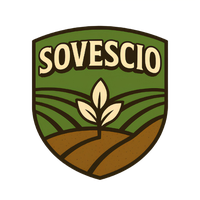
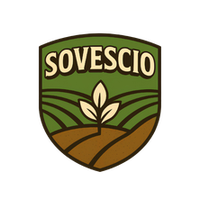
Storico draft: pagina con il tabellone delle scelte per anno
Nuova pagina pubblica /draft, raggiungibile dalla home: filtro per anno e
tabellone a tre colonne, una per giro, con numero della pick, squadra che
ha scelto, giocatore con ruolo e campioncino. Solo i draft gia' svolti.

Loghi delle squadre ritagliati con lo stesso margine (5%), cosi' hanno la
stessa grandezza visiva in tutto il sito.

Changed region(s): [[0.15, 0.12, 0.84, 0.9]]

diff --git a/app/templates/storico_draft.html b/app/templates/storico_draft.html
@@ -1,0 +1,93 @@
+{% extends 'base_tailwind.html' %}
+
+{% block content %}
+{% import '_macros.html' as m %}
+<div class="mb-2">{{ m.torna_indietro(url_for('public.home')) }}</div>
+<h2 class="mb-4 text-center text-lg font-bold">Storico Draft</h2>
+
+{% set anni = scelte | map(attribute='anno') | unique | list %}
+
+{% if scelte %}
+<div class="mb-4 rounded-2xl border border-line bg-panel p-4">
+    <label for="filterAnno" class="mb-1.5 block text-[11px] font-bold uppercase tracking-wide text-muted">Anno</label>
+    <select id="filterAnno" class="w-full rounded-xl border border-line bg-panel-2 px-3 py-2 text-sm">
+        {% for anno in anni %}
+        <option value="{{ anno }}" {% if loop.first %}selected{% endif %}>{{ anno }}</option>
+        {% endfor %}
+    </select>
+</div>
+
+<!-- Tabellone: una colonna per giro (una sotto l'altra su telefono), le
+     scelte nell'ordine di chiamata. -->
+{% for anno in anni %}
+<div class="dr-tabellone" data-anno="{{ anno }}">
+    {% for giro, picks in scelte | selectattr('anno', 'equalto', anno) | groupby('giro') %}
+    <section class="dr-giro">
+        <h3 class="dr-giro-titolo">Giro {{ giro }}</h3>
+        {% for s in picks | sort(attribute='numero') %}
+        <div class="dr-tile {{ 'dr-prima' if s.numero == 1 }}">
+            <span class="dr-tile-num">{{ s.numero }}</span>
+            <img src="{{ url_for('static', filename='loghi/' ~ (s.username or 'svincolato') ~ '.png') }}?v={{ asset_v('loghi/' ~ (s.username or 'svincolato') ~ '.png') }}"
+                 alt="" class="dr-tile-logo">
+            <div class="min-w-0 flex-1">
+                <div class="truncate text-sm font-bold">{{ s.giocatore }}</div>
+                <div class="truncate text-[11px] text-muted">
+                    {% if s.ruolo %}{{ m.ruolo_colorato(s.ruolo) }} · {% endif %}{{ s.squadra }}
+                </div>
+            </div>
+            {% if s.campioncino %}<img src="{{ s.campioncino }}" alt="" class="dr-tile-foto" loading="lazy" onerror="this.remove()">{% endif %}
+        </div>
+        {% endfor %}
+    </section>
+    {% endfor %}
+</div>
+{% endfor %}
+{% else %}
+<p class="rounded-2xl border border-line bg-panel p-4 text-center text-sm text-muted">Nessun draft registrato.</p>
+{% endif %}
+
+<style>
+.dr-tabellone { display: grid; gap: 1rem; }
+@media (min-width: 768px) { .dr-tabellone { grid-template-columns: repeat(3, minmax(0, 1fr)); } }
+/* display: grid qui sopra vincerebbe su .hidden di Tailwind, che e' caricato
+   prima: senza questa regola il filtro per anno non nasconderebbe niente. */
+.dr-tabellone.hidden { display: none; }
+.dr-giro { display: flex; flex-direction: column; gap: 0.5rem; }
+.dr-giro-titolo {
+    padding: 0.4rem 0.75rem; border-radius: 0.75rem; text-align: center;
+    font-size: 0.75rem; font-weight: 800; text-transform: uppercase; letter-spacing: 0.08em;
+    color: #fff; background: linear-gradient(135deg, var(--accent), color-mix(in oklab, var(--accent) 55%, #000));
+}
+.dr-tile {
+    display: flex; align-items: center; gap: 0.6rem; padding: 0.5rem 0.6rem;
+    border: 1px solid var(--line); border-radius: 0.9rem; background: var(--panel);
+    transition: transform .15s, border-color .15s;
+}
+.dr-tile:hover { transform: translateY(-2px); border-color: var(--accent); }
+.dr-tile-num {
+    width: 2rem; flex-shrink: 0; text-align: center; font-size: 1.25rem; font-weight: 900;
+    font-variant-numeric: tabular-nums; color: color-mix(in oklab, var(--accent) 80%, var(--text));
+}
+.dr-tile-logo { height: 1.75rem; width: 1.75rem; flex-shrink: 0; object-fit: contain; }
+.dr-tile-foto { height: 2.75rem; width: 2rem; flex-shrink: 0; object-fit: contain; }
+/* La prima scelta assoluta in oro, come il primo posto del podio nell'albo d'oro. */
+.dr-tile.dr-prima { border-color: #ffb020; background: linear-gradient(90deg, color-mix(in oklab, #ffb020 18%, var(--panel)), var(--panel)); }
+.dr-tile.dr-prima .dr-tile-num { color: #ffb020; }
+</style>
+
+<script>
+document.addEventListener('DOMContentLoaded', function() {
+    const filterAnno = document.getElementById('filterAnno');
+    if (!filterAnno) return;
+
+    function applyFilter() {
+        document.querySelectorAll('[data-anno]').forEach(el => {
+            el.classList.toggle('hidden', el.dataset.anno !== filterAnno.value);
+        });
+    }
+
+    filterAnno.addEventListener('change', applyFilter);
+    applyFilter(); // il select parte sull'ultimo anno: nascondi subito gli altri
+});
+</script>
+{% endblock %}

diff --git a/app/templates/index.html b/app/templates/index.html
@@ -16,6 +16,7 @@
     {{ m.voce_menu(url_for('vetrina.vetrina'), 'bi-shop-window', 'Vetrina') }}
     {{ m.voce_menu(url_for('public.movimenti_mercato'), 'bi-arrow-left-right', 'Movimenti di Mercato') }}
     {{ m.voce_menu(url_for('public.albo_oro'), 'bi-trophy-fill', "Albo d'Oro") }}
+    {{ m.voce_menu(url_for('public.storico_draft'), 'bi-stars', 'Storico Draft') }}
     {{ m.voce_menu(url_for('chat.chat_page'), 'bi-chat-dots-fill', 'Chatbot della lega') }}
 </div>
 

diff --git a/tests/test_storico_draft.py b/tests/test_storico_draft.py
@@ -1,0 +1,99 @@
+"""
+Storico draft: quali pick compaiono in pagina e in che ordine.
+
+In tabella ci sono gia' le pick degli anni futuri, ancora senza giocatore:
+la pagina deve mostrare solo i draft svolti, dall'anno piu' recente e, dentro
+l'anno, nell'ordine di chiamata. La squadra mostrata e' chi deteneva la pick,
+che dopo uno scambio non e' quella originale.
+"""
+
+from datetime import date
+
+import pytest
+
+pytestmark = pytest.mark.db
+
+
+def _inserisci(cur, id_pick, anno, giro, numero, detentore, originale=None, id_giocatore=None):
+    cur.execute(
+        """INSERT INTO draft (id, anno, giro, numero, detentore_att, detentore_originale, id_giocatore_scelto)
+           VALUES (%s, %s, %s, %s, %s, %s, %s);""",
+        (id_pick, date(anno, 1, 1), giro, numero, detentore, originale or detentore, id_giocatore))
+
+
+@pytest.fixture
+def draft_pulito(cur, db_isolato):
+    """Svuota il draft per la durata del test: si verifica su righe note."""
+    cur.execute("DELETE FROM draft;")
+    db_isolato.commit()
+    return cur
+
+
+@pytest.fixture
+def due_squadre(cur):
+    cur.execute("SELECT nome FROM squadra WHERE nome <> 'Svincolato' ORDER BY nome LIMIT 2;")
+    righe = cur.fetchall()
+    if len(righe) < 2:
+        pytest.skip("Servono due squadre.")
+    return righe[0]["nome"], righe[1]["nome"]
+
+
+@pytest.fixture
+def tre_giocatori(cur):
+    cur.execute("SELECT id FROM giocatore ORDER BY id LIMIT 3;")
+    righe = cur.fetchall()
+    if len(righe) < 3:
+        pytest.skip("Servono tre giocatori.")
+    return [r["id"] for r in righe]
+
+
+def _storico(cur):
+    from app.repositories import draft as draft_repo
+    return draft_repo.storico(cur)
+
+
+class TestStorico:
+    def test_esclude_le_pick_non_ancora_usate(self, draft_pulito, db_isolato, due_squadre, tre_giocatori):
+        prima, _ = due_squadre
+        _inserisci(draft_pulito, 900001, 2026, 1, 1, prima, id_giocatore=tre_giocatori[0])
+        _inserisci(draft_pulito, 900002, 2027, 1, None, prima)
+        db_isolato.commit()
+
+        assert [r["anno"] for r in _storico(draft_pulito)] == ["2026"]
+
+    def test_anno_piu_recente_prima_poi_ordine_di_chiamata(
+        self, draft_pulito, db_isolato, due_squadre, tre_giocatori
+    ):
+        prima, seconda = due_squadre
+        g1, g2, g3 = tre_giocatori
+        _inserisci(draft_pulito, 900001, 2025, 1, 1, prima, id_giocatore=g1)
+        _inserisci(draft_pulito, 900002, 2026, 2, 12, prima, id_giocatore=g2)
+        _inserisci(draft_pulito, 900003, 2026, 1, 3, seconda, id_giocatore=g3)
+        db_isolato.commit()
+
+        assert [(r["anno"], r["numero"]) for r in _storico(draft_pulito)] == [
+            ("2026", 3), ("2026", 12), ("2025", 1)]
+
+    def test_la_squadra_e_chi_deteneva_la_pick(self, draft_pulito, db_isolato, due_squadre, tre_giocatori):
+        prima, seconda = due_squadre
+        _inserisci(draft_pulito, 900001, 2026, 1, 1, seconda, originale=prima,
+                   id_giocatore=tre_giocatori[0])
+        db_isolato.commit()
+
+        assert _storico(draft_pulito)[0]["squadra"] == seconda
+
+
+class TestPagina:
+    def test_la_pagina_mostra_le_scelte(self, app, draft_pulito, db_isolato, due_squadre, tre_giocatori):
+        prima, _ = due_squadre
+        _inserisci(draft_pulito, 900001, 2026, 1, 1, prima, id_giocatore=tre_giocatori[0])
+        db_isolato.commit()
+
+        risposta = app.test_client().get("/draft")
+        assert risposta.status_code == 200
+        assert prima in risposta.get_data(as_text=True)
+
+    def test_un_draft_vuoto_non_rompe_la_pagina(self, app, draft_pulito):
+        risposta = app.test_client().get("/draft")
+        assert risposta.status_code == 200
+        assert "Nessun draft registrato" in risposta.get_data(as_text=True)

diff --git a/app/blueprints/public.py b/app/blueprints/public.py
@@ -1,6 +1,6 @@
 """
 Pagine pubbliche: home, elenco squadre, dashboard di una squadra, listone,
-aste, movimenti di mercato, crediti/stadi/slot, regolamento e health check.
+aste, movimenti di mercato, crediti/stadi/slot, storico draft, regolamento e health check.
 
 Corpo delle funzioni spostato da main.py senza modifiche di logica: cambiano
 solo il decoratore (da @app.route a @public_bp.route) e i nomi degli endpoint
@@ -22,6 +22,7 @@ from app.core.tempo import formatta_data
 from app.domini.ruoli import pulisci_ruolo
 from app.repositories import albo_oro as albo_oro_repo
 from app.repositories import aste as aste_repo
+from app.repositories import draft as draft_repo
 from app.repositories import giocatori as giocatori_repo
 from app.repositories import squadre as squadre_repo
 from app.services import crediti_stadi_slot as servizio_crediti_stadi_slot
@@ -123,6 +124,15 @@ def albo_oro():
         righe = albo_oro_repo.leggi(cur)
 
     return render_template("albo_oro.html", righe=righe)
+
+
+@public_bp.route("/draft")
+def storico_draft():
+    with connessione() as (conn, cur):
+        scelte = [{**s, "campioncino": url_campioncino(s["id_fantacalcio"])}
+                  for s in draft_repo.storico(cur)]
+
+    return render_template("storico_draft.html", scelte=scelte)
 
 
 def _versioni_loghi(username: list[str]) -> dict:

diff --git a/app/repositories/draft.py b/app/repositories/draft.py
@@ -66,3 +66,22 @@ def pick_della_squadra(cur, nome_squadra: str) -> list[dict]:
            ORDER BY d.anno, d.numero;""",
         (nome_squadra,))
     return cur.fetchall()
+
+
+def storico(cur) -> list[dict]:
+    """Le scelte dei draft gia' svolti, per la pagina pubblica dello storico.
+
+    Solo le pick usate: quelle degli anni futuri esistono gia' in tabella ma
+    non hanno ancora un giocatore. La squadra che ha scelto e' il detentore
+    della pick, non quello originale: se la pick e' stata scambiata, ha scelto
+    chi l'aveva in mano. Il ruolo e' quello attuale del giocatore, l'unico
+    salvato.
+    """
+    cur.execute(
+        """SELECT d.anno, d.giro, d.numero, d.detentore_att AS squadra,
+                  s.username, g.nome AS giocatore, g.ruolo, g.id_fantacalcio
+           FROM draft d
+           JOIN giocatore g ON g.id = d.id_giocatore_scelto
+           LEFT JOIN squadra s ON s.nome = d.detentore_att
+           ORDER BY d.anno DESC, d.numero, d.giro;""")
+    return [{**r, "anno": _anno(r["anno"])} for r in cur.fetchall()]

diff --git a/tests/test_smoke_routes.py b/tests/test_smoke_routes.py
@@ -108,7 +108,7 @@ def test_gate_chiuso_reindirizza_invece_di_errore(client_squadra, nome_squadra):
 def test_route_pubbliche_rispondono_200(client):
     """Le pagine senza autenticazione devono essere raggiungibili da chiunque."""
     for url in ("/", "/login", "/squadre", "/listone", "/aste", "/vetrina/vetrina",
-                "/movimenti_mercato", "/crediti_stadi_slot", "/albo_oro", "/health"):
+                "/movimenti_mercato", "/crediti_stadi_slot", "/albo_oro", "/draft", "/health"):
         risposta = client.get(url)
         assert risposta.status_code == 200, f"{url} -> {risposta.status_code}"
 
